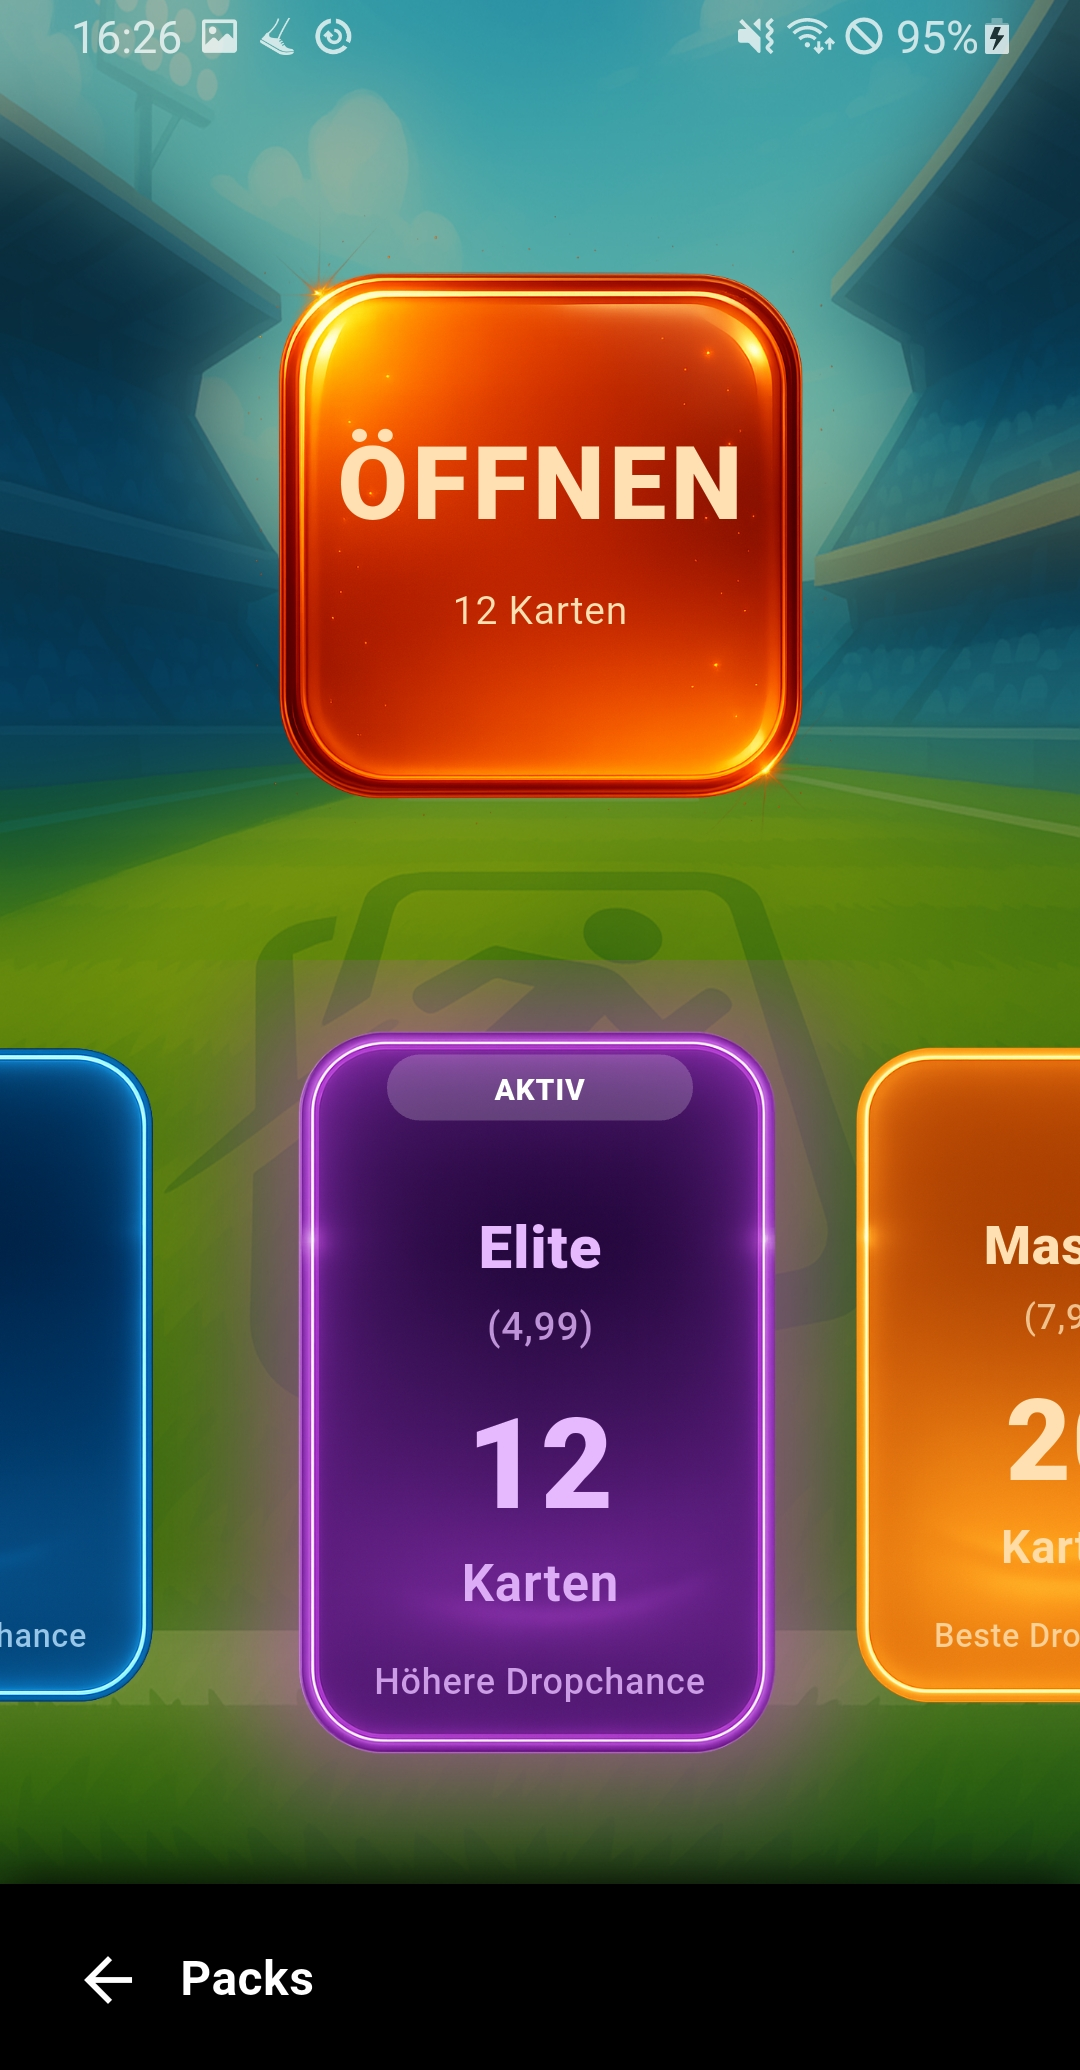
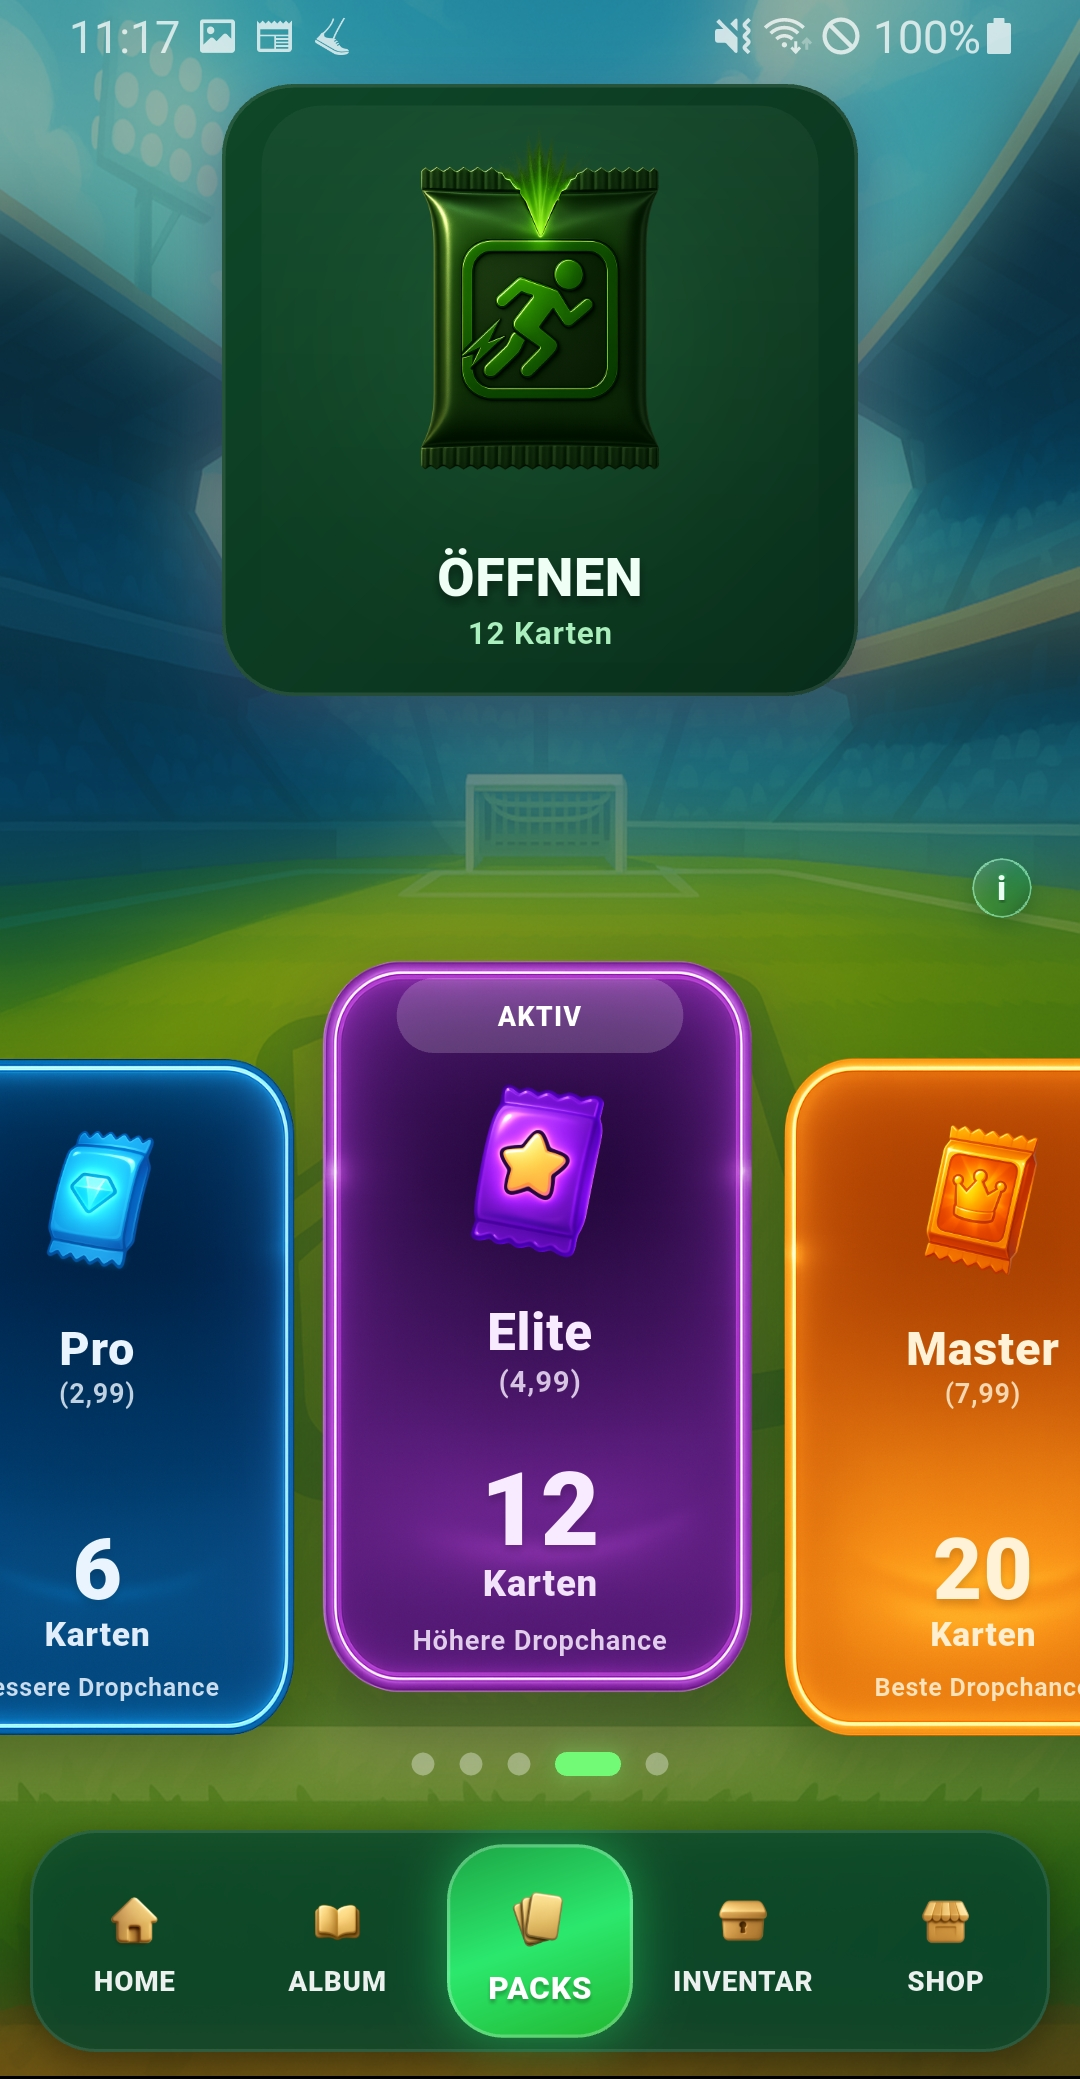
fix homepage

diff --git a/app/page.tsx b/app/page.tsx
@@ -1,7 +1,7 @@
 "use client";
 
 import Image from "next/image";
-import { useEffect, useMemo, useState } from "react";
+import { useEffect, useMemo, useRef, useState } from "react";
 
 type ScreenshotItem = {
   title: string;
@@ -641,9 +641,43 @@ function Lightbox({
   onPrev: () => void;
   onNext: () => void;
 }) {
+  const touchStartX = useRef<number | null>(null);
+  const touchEndX = useRef<number | null>(null);
+
+  function handleTouchStart(e: React.TouchEvent<HTMLDivElement>) {
+    touchEndX.current = null;
+    touchStartX.current = e.changedTouches[0].clientX;
+  }
+
+  function handleTouchMove(e: React.TouchEvent<HTMLDivElement>) {
+    touchEndX.current = e.changedTouches[0].clientX;
+  }
+
+  function handleTouchEnd() {
+    if (touchStartX.current === null) return;
+
+    const endX = touchEndX.current ?? touchStartX.current;
+    const deltaX = touchStartX.current - endX;
+    const minSwipeDistance = 50;
+
+    if (Math.abs(deltaX) < minSwipeDistance) return;
+
+    if (deltaX > 0) {
+      onNext();
+    } else {
+      onPrev();
+    }
+  }
+
   return (
     <div style={lightboxOverlayStyle} onClick={onClose}>
-      <div style={lightboxShellStyle} onClick={(e) => e.stopPropagation()}>
+      <div
+        style={lightboxShellStyle}
+        onClick={(e) => e.stopPropagation()}
+        onTouchStart={handleTouchStart}
+        onTouchMove={handleTouchMove}
+        onTouchEnd={handleTouchEnd}
+      >
         <button
           type="button"
           onClick={onClose}
@@ -675,6 +709,8 @@ function Lightbox({
           <div style={lightboxPhoneWrapStyle}>
             <img src={item.fileName} alt={item.title} style={lightboxImageStyle} />
           </div>
+
+          <div style={lightboxSwipeHintStyle}>← Wischen zum Wechseln →</div>
 
           <div style={lightboxTextStyle}>
             <h3 style={lightboxTitleStyle}>{item.title}</h3>
@@ -1237,6 +1273,7 @@ const lightboxShellStyle: React.CSSProperties = {
   position: "relative",
   width: "100%",
   maxWidth: "620px",
+  touchAction: "pan-y",
 };
 
 const lightboxCloseStyle: React.CSSProperties = {
@@ -1301,6 +1338,14 @@ const lightboxImageStyle: React.CSSProperties = {
   width: "100%",
   height: "auto",
   display: "block",
+};
+
+const lightboxSwipeHintStyle: React.CSSProperties = {
+  marginTop: "10px",
+  textAlign: "center",
+  color: "#86efac",
+  fontSize: "13px",
+  fontWeight: 700,
 };
 
 const lightboxTextStyle: React.CSSProperties = {
